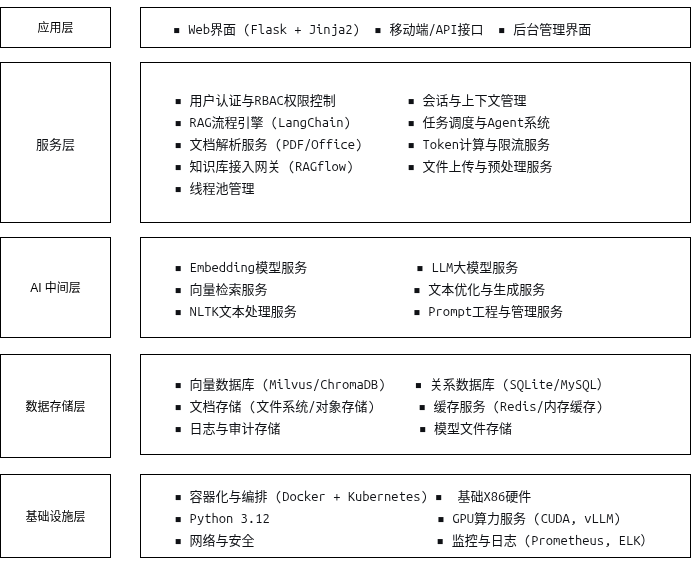
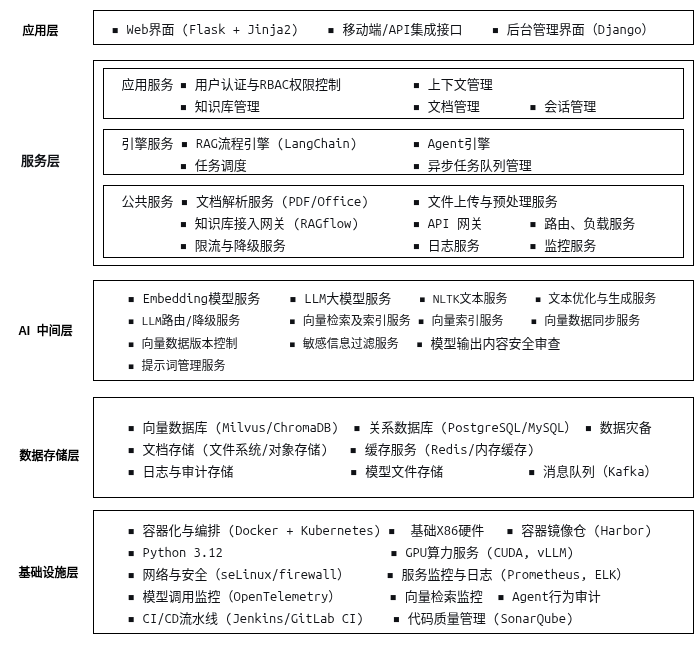
debug

diff --git a/deploy/arch.html b/deploy/arch.html
@@ -1,0 +1,11 @@
+<!--[if IE]><meta http-equiv="X-UA-Compatible" content="IE=5,IE=9" ><![endif]-->
+<!DOCTYPE html>
+<html>
+<head>
+<title>arch</title>
+<meta charset="utf-8"/>
+</head>
+<body><div class="mxgraph" style="max-width:100%;border:1px solid transparent;" data-mxgraph="{&quot;highlight&quot;:&quot;#0000ff&quot;,&quot;nav&quot;:true,&quot;resize&quot;:true,&quot;dark-mode&quot;:&quot;auto&quot;,&quot;toolbar&quot;:&quot;zoom layers tags lightbox&quot;,&quot;edit&quot;:&quot;_blank&quot;,&quot;xml&quot;:&quot;&lt;mxfile host=\&quot;Electron\&quot; agent=\&quot;Mozilla/5.0 (X11; Linux x86_64) AppleWebKit/537.36 (KHTML, like Gecko) draw.io/28.2.5 Chrome/138.0.7204.251 Electron/37.6.1 Safari/537.36\&quot; version=\&quot;28.2.5\&quot;&gt;\n  &lt;diagram name=\&quot;Page-1\&quot; id=\&quot;1QeFOrj1-oulau7OxpfU\&quot;&gt;\n    &lt;mxGraphModel dx=\&quot;2066\&quot; dy=\&quot;1203\&quot; grid=\&quot;1\&quot; gridSize=\&quot;10\&quot; guides=\&quot;1\&quot; tooltips=\&quot;1\&quot; connect=\&quot;1\&quot; arrows=\&quot;1\&quot; fold=\&quot;1\&quot; page=\&quot;1\&quot; pageScale=\&quot;1\&quot; pageWidth=\&quot;850\&quot; pageHeight=\&quot;1100\&quot; math=\&quot;0\&quot; shadow=\&quot;0\&quot;&gt;\n      &lt;root&gt;\n        &lt;mxCell id=\&quot;0\&quot; /&gt;\n        &lt;mxCell id=\&quot;1\&quot; parent=\&quot;0\&quot; /&gt;\n        &lt;mxCell id=\&quot;xHKZXURKbuVcO6ybFSvy-1\&quot; value=\&quot;应用层\&quot; style=\&quot;rounded=0;whiteSpace=wrap;html=1;fillColor=none;strokeColor=none;fontStyle=1\&quot; parent=\&quot;1\&quot; vertex=\&quot;1\&quot;&gt;\n          &lt;mxGeometry x=\&quot;77\&quot; y=\&quot;142\&quot; width=\&quot;80\&quot; height=\&quot;40\&quot; as=\&quot;geometry\&quot; /&gt;\n        &lt;/mxCell&gt;\n        &lt;mxCell id=\&quot;xHKZXURKbuVcO6ybFSvy-2\&quot; value=\&quot;&amp;lt;pre style=&amp;quot;text-align: justify; font-variant-numeric: normal; font-variant-east-asian: normal; font-variant-alternates: normal; font-size-adjust: none; font-kerning: auto; font-optical-sizing: auto; font-feature-settings: normal; font-variation-settings: normal; font-variant-position: normal; font-variant-emoji: normal; font-stretch: normal; font-size: 13px; line-height: 22px; font-family: Menlo, Monaco, Consolas, &amp;amp;quot;Cascadia Mono&amp;amp;quot;, &amp;amp;quot;Ubuntu Mono&amp;amp;quot;, &amp;amp;quot;DejaVu Sans Mono&amp;amp;quot;, &amp;amp;quot;Liberation Mono&amp;amp;quot;, &amp;amp;quot;JetBrains Mono&amp;amp;quot;, &amp;amp;quot;Fira Code&amp;amp;quot;, Cousine, &amp;amp;quot;Roboto Mono&amp;amp;quot;, &amp;amp;quot;Courier New&amp;amp;quot;, Courier, sans-serif, system-ui; overflow: auto; text-wrap-mode: wrap; word-break: break-all; padding: 16px; color: rgb(15, 17, 21); margin: 0px !important;&amp;quot;&amp;gt;▪ Web界面 (Flask + Jinja2)    ▪ 移动端/API集成接口    ▪ 后台管理界面（Django）&amp;lt;/pre&amp;gt;\&quot; style=\&quot;rounded=0;whiteSpace=wrap;html=1;align=left;fillColor=default;\&quot; parent=\&quot;1\&quot; vertex=\&quot;1\&quot;&gt;\n          &lt;mxGeometry x=\&quot;170\&quot; y=\&quot;142\&quot; width=\&quot;600\&quot; height=\&quot;34\&quot; as=\&quot;geometry\&quot; /&gt;\n        &lt;/mxCell&gt;\n        &lt;mxCell id=\&quot;xHKZXURKbuVcO6ybFSvy-3\&quot; value=\&quot;&amp;lt;pre style=&amp;quot;font-variant-numeric: normal; font-variant-east-asian: normal; font-variant-alternates: normal; font-size-adjust: none; font-kerning: auto; font-optical-sizing: auto; font-feature-settings: normal; font-variation-settings: normal; font-variant-position: normal; font-variant-emoji: normal; font-stretch: normal; font-size: 13px; line-height: 22px; font-family: Menlo, Monaco, Consolas, &amp;amp;quot;Cascadia Mono&amp;amp;quot;, &amp;amp;quot;Ubuntu Mono&amp;amp;quot;, &amp;amp;quot;DejaVu Sans Mono&amp;amp;quot;, &amp;amp;quot;Liberation Mono&amp;amp;quot;, &amp;amp;quot;JetBrains Mono&amp;amp;quot;, &amp;amp;quot;Fira Code&amp;amp;quot;, Cousine, &amp;amp;quot;Roboto Mono&amp;amp;quot;, &amp;amp;quot;Courier New&amp;amp;quot;, Courier, sans-serif, system-ui; overflow: auto; text-wrap-mode: wrap; word-break: break-all; padding: 16px; color: rgb(15, 17, 21); text-align: start; margin: 0px !important;&amp;quot;&amp;gt;服务层&amp;lt;/pre&amp;gt;\&quot; style=\&quot;rounded=0;whiteSpace=wrap;html=1;strokeColor=none;fontStyle=1;fillColor=none;\&quot; parent=\&quot;1\&quot; vertex=\&quot;1\&quot;&gt;\n          &lt;mxGeometry x=\&quot;77\&quot; y=\&quot;273\&quot; width=\&quot;80\&quot; height=\&quot;33\&quot; as=\&quot;geometry\&quot; /&gt;\n        &lt;/mxCell&gt;\n        &lt;mxCell id=\&quot;xHKZXURKbuVcO6ybFSvy-4\&quot; value=\&quot;\&quot; style=\&quot;rounded=0;whiteSpace=wrap;html=1;align=left;fillColor=default;\&quot; parent=\&quot;1\&quot; vertex=\&quot;1\&quot;&gt;\n          &lt;mxGeometry x=\&quot;170\&quot; y=\&quot;192\&quot; width=\&quot;600\&quot; height=\&quot;205\&quot; as=\&quot;geometry\&quot; /&gt;\n        &lt;/mxCell&gt;\n        &lt;mxCell id=\&quot;xHKZXURKbuVcO6ybFSvy-5\&quot; value=\&quot;AI&amp;amp;nbsp; 中间层\&quot; style=\&quot;rounded=0;whiteSpace=wrap;html=1;fontStyle=1;strokeColor=none;fillColor=none;\&quot; parent=\&quot;1\&quot; vertex=\&quot;1\&quot;&gt;\n          &lt;mxGeometry x=\&quot;82\&quot; y=\&quot;443\&quot; width=\&quot;80\&quot; height=\&quot;38\&quot; as=\&quot;geometry\&quot; /&gt;\n        &lt;/mxCell&gt;\n        &lt;mxCell id=\&quot;xHKZXURKbuVcO6ybFSvy-6\&quot; value=\&quot;&amp;lt;pre style=&amp;quot;font-variant-numeric: normal; font-variant-east-asian: normal; font-variant-alternates: normal; font-size-adjust: none; font-kerning: auto; font-optical-sizing: auto; font-feature-settings: normal; font-variation-settings: normal; font-variant-position: normal; font-variant-emoji: normal; font-stretch: normal; line-height: 22px; font-family: Menlo, Monaco, Consolas, &amp;amp;quot;Cascadia Mono&amp;amp;quot;, &amp;amp;quot;Ubuntu Mono&amp;amp;quot;, &amp;amp;quot;DejaVu Sans Mono&amp;amp;quot;, &amp;amp;quot;Liberation Mono&amp;amp;quot;, &amp;amp;quot;JetBrains Mono&amp;amp;quot;, &amp;amp;quot;Fira Code&amp;amp;quot;, Cousine, &amp;amp;quot;Roboto Mono&amp;amp;quot;, &amp;amp;quot;Courier New&amp;amp;quot;, Courier, sans-serif, system-ui; overflow: auto; text-wrap-mode: wrap; word-break: break-all; padding: 16px; color: rgb(15, 17, 21); margin: 0px !important;&amp;quot;&amp;gt;&amp;lt;pre style=&amp;quot;font-variant-numeric: normal; font-variant-east-asian: normal; font-variant-alternates: normal; font-size-adjust: none; font-kerning: auto; font-optical-sizing: auto; font-feature-settings: normal; font-variation-settings: normal; font-variant-position: normal; font-variant-emoji: normal; font-stretch: normal; line-height: 22px; font-family: Menlo, Monaco, Consolas, &amp;amp;quot;Cascadia Mono&amp;amp;quot;, &amp;amp;quot;Ubuntu Mono&amp;amp;quot;, &amp;amp;quot;DejaVu Sans Mono&amp;amp;quot;, &amp;amp;quot;Liberation Mono&amp;amp;quot;, &amp;amp;quot;JetBrains Mono&amp;amp;quot;, &amp;amp;quot;Fira Code&amp;amp;quot;, Cousine, &amp;amp;quot;Roboto Mono&amp;amp;quot;, &amp;amp;quot;Courier New&amp;amp;quot;, Courier, sans-serif, system-ui; overflow: auto; text-wrap-mode: wrap; word-break: break-all; padding: 16px; margin: 0px !important;&amp;quot;&amp;gt;&amp;lt;span style=&amp;quot;font-size: 13px;&amp;quot;&amp;gt;▪ Embedding模型服务    ▪ LLM大模型服务&amp;lt;span style=&amp;quot;white-space: pre;&amp;quot;&amp;gt;&amp;#x9;&amp;lt;/span&amp;gt;&amp;lt;/span&amp;gt;▪ NLTK文本服务    ▪ 文本优化与生成服务&amp;lt;br&amp;gt;▪ LLM路由/降级服务&amp;lt;span style=&amp;quot;white-space: pre;&amp;quot;&amp;gt;&amp;#x9;&amp;lt;/span&amp;gt;▪ 向量检索及索引服务 ▪ 向量索引服务    ▪ 向量数据同步服务&amp;lt;br&amp;gt;▪ 向量数据版本控制&amp;lt;span style=&amp;quot;white-space: pre;&amp;quot;&amp;gt;&amp;#x9;&amp;lt;/span&amp;gt;▪ &amp;lt;font style=&amp;quot;white-space-collapse: collapse; background-color: transparent;&amp;quot;&amp;gt;&amp;lt;span style=&amp;quot;font-family: quote-cjk-patch, Inter, system-ui, -apple-system, BlinkMacSystemFont, &amp;amp;quot;Segoe UI&amp;amp;quot;, Roboto, Oxygen, Ubuntu, Cantarell, &amp;amp;quot;Open Sans&amp;amp;quot;, &amp;amp;quot;Helvetica Neue&amp;amp;quot;, sans-serif; background-color: rgb(255, 255, 255);&amp;quot;&amp;gt;敏感信息过滤服务&amp;lt;span style=&amp;quot;white-space: pre;&amp;quot;&amp;gt;&amp;#x9;&amp;lt;/span&amp;gt;&amp;amp;nbsp;&amp;lt;/span&amp;gt;&amp;lt;/font&amp;gt;▪&amp;lt;span style=&amp;quot;font-size: 13px; white-space-collapse: collapse; background-color: transparent;&amp;quot;&amp;gt; &amp;lt;/span&amp;gt;&amp;lt;span style=&amp;quot;font-size: 13px; white-space-collapse: collapse; font-family: quote-cjk-patch, Inter, system-ui, -apple-system, BlinkMacSystemFont, &amp;amp;quot;Segoe UI&amp;amp;quot;, Roboto, Oxygen, Ubuntu, Cantarell, &amp;amp;quot;Open Sans&amp;amp;quot;, &amp;amp;quot;Helvetica Neue&amp;amp;quot;, sans-serif; background-color: rgb(255, 255, 255);&amp;quot;&amp;gt;模型输出内容安全审查&amp;lt;br&amp;gt;&amp;lt;/span&amp;gt;▪ 提示词管理服务&amp;amp;nbsp;&amp;lt;/pre&amp;gt;&amp;lt;/pre&amp;gt;\&quot; style=\&quot;rounded=0;whiteSpace=wrap;html=1;align=left;\&quot; parent=\&quot;1\&quot; vertex=\&quot;1\&quot;&gt;\n          &lt;mxGeometry x=\&quot;170\&quot; y=\&quot;412\&quot; width=\&quot;600\&quot; height=\&quot;100\&quot; as=\&quot;geometry\&quot; /&gt;\n        &lt;/mxCell&gt;\n        &lt;mxCell id=\&quot;xHKZXURKbuVcO6ybFSvy-7\&quot; value=\&quot;数据存储层\&quot; style=\&quot;rounded=0;whiteSpace=wrap;html=1;fontStyle=1;strokeColor=none;fillColor=none;\&quot; parent=\&quot;1\&quot; vertex=\&quot;1\&quot;&gt;\n          &lt;mxGeometry x=\&quot;86\&quot; y=\&quot;570\&quot; width=\&quot;80\&quot; height=\&quot;34\&quot; as=\&quot;geometry\&quot; /&gt;\n        &lt;/mxCell&gt;\n        &lt;mxCell id=\&quot;xHKZXURKbuVcO6ybFSvy-8\&quot; value=\&quot;&amp;lt;pre style=&amp;quot;font-variant-numeric: normal; font-variant-east-asian: normal; font-variant-alternates: normal; font-size-adjust: none; font-kerning: auto; font-optical-sizing: auto; font-feature-settings: normal; font-variation-settings: normal; font-variant-position: normal; font-variant-emoji: normal; font-stretch: normal; font-size: 13px; line-height: 22px; font-family: Menlo, Monaco, Consolas, &amp;amp;quot;Cascadia Mono&amp;amp;quot;, &amp;amp;quot;Ubuntu Mono&amp;amp;quot;, &amp;amp;quot;DejaVu Sans Mono&amp;amp;quot;, &amp;amp;quot;Liberation Mono&amp;amp;quot;, &amp;amp;quot;JetBrains Mono&amp;amp;quot;, &amp;amp;quot;Fira Code&amp;amp;quot;, Cousine, &amp;amp;quot;Roboto Mono&amp;amp;quot;, &amp;amp;quot;Courier New&amp;amp;quot;, Courier, sans-serif, system-ui; overflow: auto; text-wrap-mode: wrap; word-break: break-all; padding: 16px; color: rgb(15, 17, 21); margin: 0px !important;&amp;quot;&amp;gt;&amp;lt;pre style=&amp;quot;font-variant-numeric: normal; font-variant-east-asian: normal; font-variant-alternates: normal; font-size-adjust: none; font-kerning: auto; font-optical-sizing: auto; font-feature-settings: normal; font-variation-settings: normal; font-variant-position: normal; font-variant-emoji: normal; font-stretch: normal; line-height: 22px; font-family: Menlo, Monaco, Consolas, &amp;amp;quot;Cascadia Mono&amp;amp;quot;, &amp;amp;quot;Ubuntu Mono&amp;amp;quot;, &amp;amp;quot;DejaVu Sans Mono&amp;amp;quot;, &amp;amp;quot;Liberation Mono&amp;amp;quot;, &amp;amp;quot;JetBrains Mono&amp;amp;quot;, &amp;amp;quot;Fira Code&amp;amp;quot;, Cousine, &amp;amp;quot;Roboto Mono&amp;amp;quot;, &amp;amp;quot;Courier New&amp;amp;quot;, Courier, sans-serif, system-ui; overflow: auto; text-wrap-mode: wrap; word-break: break-all; padding: 16px; margin: 0px !important;&amp;quot;&amp;gt;▪ 向量数据库 (Milvus/ChromaDB)  ▪ 关系数据库 (PostgreSQL/MySQL） ▪ 数据灾备&amp;lt;br&amp;gt;▪ 文档存储 (文件系统/对象存储)   ▪ 缓存服务 (Redis/内存缓存) &amp;lt;br&amp;gt;▪ 日志与审计存储                ▪ 模型文件存储&amp;lt;span style=&amp;quot;white-space: pre;&amp;quot;&amp;gt;&amp;#x9;&amp;lt;/span&amp;gt;       ▪ 消息队列（Kafka）&amp;lt;/pre&amp;gt;&amp;lt;/pre&amp;gt;\&quot; style=\&quot;rounded=0;whiteSpace=wrap;html=1;align=left;\&quot; parent=\&quot;1\&quot; vertex=\&quot;1\&quot;&gt;\n          &lt;mxGeometry x=\&quot;170\&quot; y=\&quot;529\&quot; width=\&quot;600\&quot; height=\&quot;100\&quot; as=\&quot;geometry\&quot; /&gt;\n        &lt;/mxCell&gt;\n        &lt;mxCell id=\&quot;xHKZXURKbuVcO6ybFSvy-9\&quot; value=\&quot;基础设施层\&quot; style=\&quot;rounded=0;whiteSpace=wrap;html=1;fontStyle=1;strokeColor=none;fillColor=none;\&quot; parent=\&quot;1\&quot; vertex=\&quot;1\&quot;&gt;\n          &lt;mxGeometry x=\&quot;85\&quot; y=\&quot;685\&quot; width=\&quot;80\&quot; height=\&quot;37\&quot; as=\&quot;geometry\&quot; /&gt;\n        &lt;/mxCell&gt;\n        &lt;mxCell id=\&quot;xHKZXURKbuVcO6ybFSvy-10\&quot; value=\&quot;&amp;lt;pre style=&amp;quot;font-variant-numeric: normal; font-variant-east-asian: normal; font-variant-alternates: normal; font-size-adjust: none; font-kerning: auto; font-optical-sizing: auto; font-feature-settings: normal; font-variation-settings: normal; font-variant-position: normal; font-variant-emoji: normal; font-stretch: normal; font-size: 13px; line-height: 22px; font-family: Menlo, Monaco, Consolas, &amp;amp;quot;Cascadia Mono&amp;amp;quot;, &amp;amp;quot;Ubuntu Mono&amp;amp;quot;, &amp;amp;quot;DejaVu Sans Mono&amp;amp;quot;, &amp;amp;quot;Liberation Mono&amp;amp;quot;, &amp;amp;quot;JetBrains Mono&amp;amp;quot;, &amp;amp;quot;Fira Code&amp;amp;quot;, Cousine, &amp;amp;quot;Roboto Mono&amp;amp;quot;, &amp;amp;quot;Courier New&amp;amp;quot;, Courier, sans-serif, system-ui; overflow: auto; word-break: break-all; padding: 16px; color: rgb(15, 17, 21); margin: 0px !important;&amp;quot;&amp;gt;&amp;lt;pre style=&amp;quot;font-variant-numeric: normal; font-variant-east-asian: normal; font-variant-alternates: normal; font-size-adjust: none; font-kerning: auto; font-optical-sizing: auto; font-feature-settings: normal; font-variation-settings: normal; font-variant-position: normal; font-variant-emoji: normal; font-stretch: normal; line-height: 22px; font-family: Menlo, Monaco, Consolas, &amp;amp;quot;Cascadia Mono&amp;amp;quot;, &amp;amp;quot;Ubuntu Mono&amp;amp;quot;, &amp;amp;quot;DejaVu Sans Mono&amp;amp;quot;, &amp;amp;quot;Liberation Mono&amp;amp;quot;, &amp;amp;quot;JetBrains Mono&amp;amp;quot;, &amp;amp;quot;Fira Code&amp;amp;quot;, Cousine, &amp;amp;quot;Roboto Mono&amp;amp;quot;, &amp;amp;quot;Courier New&amp;amp;quot;, Courier, sans-serif, system-ui; overflow: auto; word-break: break-all; padding: 16px; margin: 0px !important;&amp;quot;&amp;gt;&amp;lt;span style=&amp;quot;text-wrap-mode: wrap;&amp;quot;&amp;gt;▪ 容器化与编排 (Docker + Kubernetes) ▪  基础X86硬件   &amp;lt;/span&amp;gt;▪ 容器镜像仓 (Harbor)&amp;lt;span style=&amp;quot;text-wrap-mode: wrap;&amp;quot;&amp;gt;&amp;lt;br&amp;gt;&amp;lt;/span&amp;gt;&amp;lt;span style=&amp;quot;text-wrap-mode: wrap;&amp;quot;&amp;gt;▪ Python 3.12                       ▪ GPU算力服务 (CUDA, vLLM)                                        &amp;lt;br&amp;gt;▪ 网络与安全（seLinux/firewall）&amp;lt;/span&amp;gt;     &amp;lt;span style=&amp;quot;white-space: normal; background-color: transparent;&amp;quot;&amp;gt;▪ 服务监控与日志 (Prometheus, ELK）&amp;lt;/span&amp;gt;▪ 模型调用监控（OpenTelemetry）  &amp;lt;span style=&amp;quot;white-space: pre;&amp;quot;&amp;gt;&amp;#x9;&amp;lt;/span&amp;gt;    ▪ 向量检索监控  ▪ Agent行为审计&amp;lt;br&amp;gt;▪ CI/CD流水线 (Jenkins/GitLab CI)    ▪ 代码质量管理 (SonarQube)&amp;lt;/pre&amp;gt;&amp;lt;/pre&amp;gt;\&quot; style=\&quot;rounded=0;whiteSpace=wrap;html=1;align=left;\&quot; parent=\&quot;1\&quot; vertex=\&quot;1\&quot;&gt;\n          &lt;mxGeometry x=\&quot;170\&quot; y=\&quot;642\&quot; width=\&quot;600\&quot; height=\&quot;123\&quot; as=\&quot;geometry\&quot; /&gt;\n        &lt;/mxCell&gt;\n        &lt;mxCell id=\&quot;nRxV_7DyLU2oDwahT82U-3\&quot; value=\&quot;&amp;lt;pre style=&amp;quot;font-variant-numeric: normal; font-variant-east-asian: normal; font-variant-alternates: normal; font-size-adjust: none; font-kerning: auto; font-optical-sizing: auto; font-feature-settings: normal; font-variation-settings: normal; font-variant-position: normal; font-variant-emoji: normal; font-stretch: normal; font-size: 13px; line-height: 22px; font-family: Menlo, Monaco, Consolas, &amp;amp;quot;Cascadia Mono&amp;amp;quot;, &amp;amp;quot;Ubuntu Mono&amp;amp;quot;, &amp;amp;quot;DejaVu Sans Mono&amp;amp;quot;, &amp;amp;quot;Liberation Mono&amp;amp;quot;, &amp;amp;quot;JetBrains Mono&amp;amp;quot;, &amp;amp;quot;Fira Code&amp;amp;quot;, Cousine, &amp;amp;quot;Roboto Mono&amp;amp;quot;, &amp;amp;quot;Courier New&amp;amp;quot;, Courier, sans-serif, system-ui; overflow: auto; text-wrap-mode: wrap; word-break: break-all; padding: 16px; color: rgb(15, 17, 21); margin: 0px !important;&amp;quot;&amp;gt;应用服务&amp;lt;span style=&amp;quot;white-space: pre;&amp;quot;&amp;gt;&amp;#x9;&amp;lt;/span&amp;gt;▪ 用户认证与RBAC权限控制&amp;lt;span style=&amp;quot;white-space: pre;&amp;quot;&amp;gt;&amp;#x9;&amp;lt;span style=&amp;quot;white-space: pre;&amp;quot;&amp;gt;&amp;#x9;&amp;lt;/span&amp;gt;&amp;lt;/span&amp;gt;▪ 上下文管理&amp;lt;br&amp;gt;&amp;lt;span style=&amp;quot;white-space: pre;&amp;quot;&amp;gt;&amp;#x9;&amp;lt;/span&amp;gt;▪ 知识库管理&amp;lt;span style=&amp;quot;white-space: pre;&amp;quot;&amp;gt;&amp;#x9;&amp;lt;/span&amp;gt;&amp;lt;span style=&amp;quot;white-space: pre;&amp;quot;&amp;gt;&amp;#x9;&amp;lt;span style=&amp;quot;white-space: pre;&amp;quot;&amp;gt;&amp;#x9;&amp;lt;/span&amp;gt;&amp;lt;/span&amp;gt;▪ 文档管理&amp;lt;span style=&amp;quot;white-space: pre;&amp;quot;&amp;gt;&amp;#x9;&amp;lt;/span&amp;gt;▪ 会话管理&amp;lt;br&amp;gt;&amp;lt;/pre&amp;gt;\&quot; style=\&quot;rounded=0;whiteSpace=wrap;html=1;align=left;fillColor=default;\&quot; parent=\&quot;1\&quot; vertex=\&quot;1\&quot;&gt;\n          &lt;mxGeometry x=\&quot;180\&quot; y=\&quot;200\&quot; width=\&quot;580\&quot; height=\&quot;50\&quot; as=\&quot;geometry\&quot; /&gt;\n        &lt;/mxCell&gt;\n        &lt;mxCell id=\&quot;nRxV_7DyLU2oDwahT82U-4\&quot; value=\&quot;&amp;lt;pre style=&amp;quot;font-variant-numeric: normal; font-variant-east-asian: normal; font-variant-alternates: normal; font-size-adjust: none; font-kerning: auto; font-optical-sizing: auto; font-feature-settings: normal; font-variation-settings: normal; font-variant-position: normal; font-variant-emoji: normal; font-stretch: normal; font-size: 13px; line-height: 22px; font-family: Menlo, Monaco, Consolas, &amp;amp;quot;Cascadia Mono&amp;amp;quot;, &amp;amp;quot;Ubuntu Mono&amp;amp;quot;, &amp;amp;quot;DejaVu Sans Mono&amp;amp;quot;, &amp;amp;quot;Liberation Mono&amp;amp;quot;, &amp;amp;quot;JetBrains Mono&amp;amp;quot;, &amp;amp;quot;Fira Code&amp;amp;quot;, Cousine, &amp;amp;quot;Roboto Mono&amp;amp;quot;, &amp;amp;quot;Courier New&amp;amp;quot;, Courier, sans-serif, system-ui; overflow: auto; text-wrap-mode: wrap; word-break: break-all; padding: 16px; color: rgb(15, 17, 21); margin: 0px !important;&amp;quot;&amp;gt;引擎服务 ▪ RAG流程引擎 (LangChain)&amp;lt;span style=&amp;quot;white-space: pre;&amp;quot;&amp;gt;&amp;#x9;&amp;lt;/span&amp;gt;▪&amp;lt;span style=&amp;quot;background-color: transparent; white-space-collapse: collapse;&amp;quot;&amp;gt;&amp;amp;nbsp;&amp;lt;/span&amp;gt;Agent引擎&amp;lt;br&amp;gt;&amp;lt;span style=&amp;quot;white-space: pre;&amp;quot;&amp;gt;&amp;#x9;&amp;lt;/span&amp;gt;▪ 任务调度&amp;lt;span style=&amp;quot;white-space: pre;&amp;quot;&amp;gt;&amp;#x9;&amp;lt;span style=&amp;quot;white-space: pre;&amp;quot;&amp;gt;&amp;#x9;&amp;lt;span style=&amp;quot;white-space: pre;&amp;quot;&amp;gt;&amp;#x9;&amp;lt;/span&amp;gt;&amp;lt;/span&amp;gt;&amp;lt;/span&amp;gt;▪ 异步任务队列管理&amp;lt;br&amp;gt;&amp;lt;/pre&amp;gt;\&quot; style=\&quot;rounded=0;whiteSpace=wrap;html=1;align=left;fillColor=default;\&quot; parent=\&quot;1\&quot; vertex=\&quot;1\&quot;&gt;\n          &lt;mxGeometry x=\&quot;180\&quot; y=\&quot;261\&quot; width=\&quot;580\&quot; height=\&quot;45\&quot; as=\&quot;geometry\&quot; /&gt;\n        &lt;/mxCell&gt;\n        &lt;mxCell id=\&quot;nRxV_7DyLU2oDwahT82U-5\&quot; value=\&quot;&amp;lt;pre style=&amp;quot;font-variant-numeric: normal; font-variant-east-asian: normal; font-variant-alternates: normal; font-size-adjust: none; font-kerning: auto; font-optical-sizing: auto; font-feature-settings: normal; font-variation-settings: normal; font-variant-position: normal; font-variant-emoji: normal; font-stretch: normal; font-size: 13px; line-height: 22px; font-family: Menlo, Monaco, Consolas, &amp;amp;quot;Cascadia Mono&amp;amp;quot;, &amp;amp;quot;Ubuntu Mono&amp;amp;quot;, &amp;amp;quot;DejaVu Sans Mono&amp;amp;quot;, &amp;amp;quot;Liberation Mono&amp;amp;quot;, &amp;amp;quot;JetBrains Mono&amp;amp;quot;, &amp;amp;quot;Fira Code&amp;amp;quot;, Cousine, &amp;amp;quot;Roboto Mono&amp;amp;quot;, &amp;amp;quot;Courier New&amp;amp;quot;, Courier, sans-serif, system-ui; overflow: auto; text-wrap-mode: wrap; word-break: break-all; padding: 16px; color: rgb(15, 17, 21); margin: 0px !important;&amp;quot;&amp;gt;公共服务 ▪ 文档解析服务 (PDF/Office) &amp;lt;span style=&amp;quot;white-space: pre;&amp;quot;&amp;gt;&amp;#x9;&amp;lt;/span&amp;gt;▪ 文件上传与预处理服务 &amp;lt;br/&amp;gt;&amp;lt;span style=&amp;quot;white-space: pre;&amp;quot;&amp;gt;&amp;#x9;&amp;lt;/span&amp;gt;▪ 知识库接入网关 (RAGflow) &amp;lt;span style=&amp;quot;white-space: pre;&amp;quot;&amp;gt;&amp;#x9;&amp;lt;/span&amp;gt;▪ API 网关&amp;lt;span style=&amp;quot;white-space: pre;&amp;quot;&amp;gt;&amp;#x9;&amp;lt;/span&amp;gt;▪ 路由、负载服务&amp;lt;br/&amp;gt;&amp;lt;span style=&amp;quot;white-space: pre;&amp;quot;&amp;gt;&amp;#x9;&amp;lt;/span&amp;gt;▪ 限流与降级服务           &amp;lt;span style=&amp;quot;white-space: pre;&amp;quot;&amp;gt;&amp;#x9;&amp;lt;/span&amp;gt;&amp;lt;span style=&amp;quot;white-space-collapse: collapse; background-color: transparent;&amp;quot;&amp;gt;▪ 日志服务&amp;lt;/span&amp;gt;&amp;#x9;&amp;lt;span style=&amp;quot;white-space-collapse: collapse; background-color: transparent;&amp;quot;&amp;gt;▪ 监控服务&amp;lt;/span&amp;gt;&amp;lt;/pre&amp;gt;\&quot; style=\&quot;rounded=0;whiteSpace=wrap;html=1;align=left;fillColor=default;\&quot; parent=\&quot;1\&quot; vertex=\&quot;1\&quot;&gt;\n          &lt;mxGeometry x=\&quot;180\&quot; y=\&quot;317\&quot; width=\&quot;580\&quot; height=\&quot;72\&quot; as=\&quot;geometry\&quot; /&gt;\n        &lt;/mxCell&gt;\n      &lt;/root&gt;\n    &lt;/mxGraphModel&gt;\n  &lt;/diagram&gt;\n&lt;/mxfile&gt;\n&quot;}"></div>
+<script type="text/javascript" src="https://viewer.diagrams.net/js/viewer-static.min.js"></script>
+</body>
+</html>
